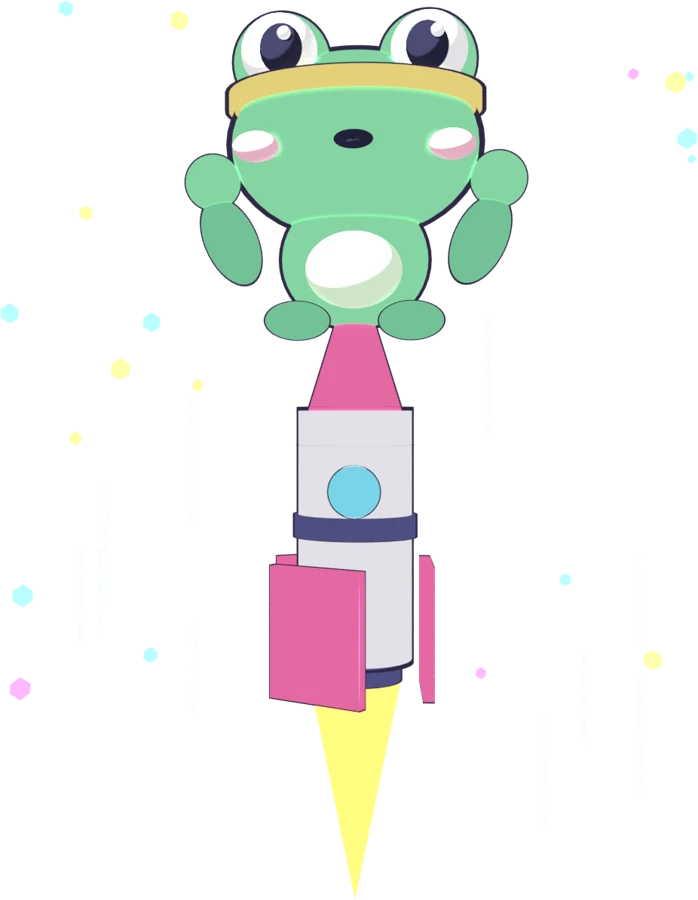
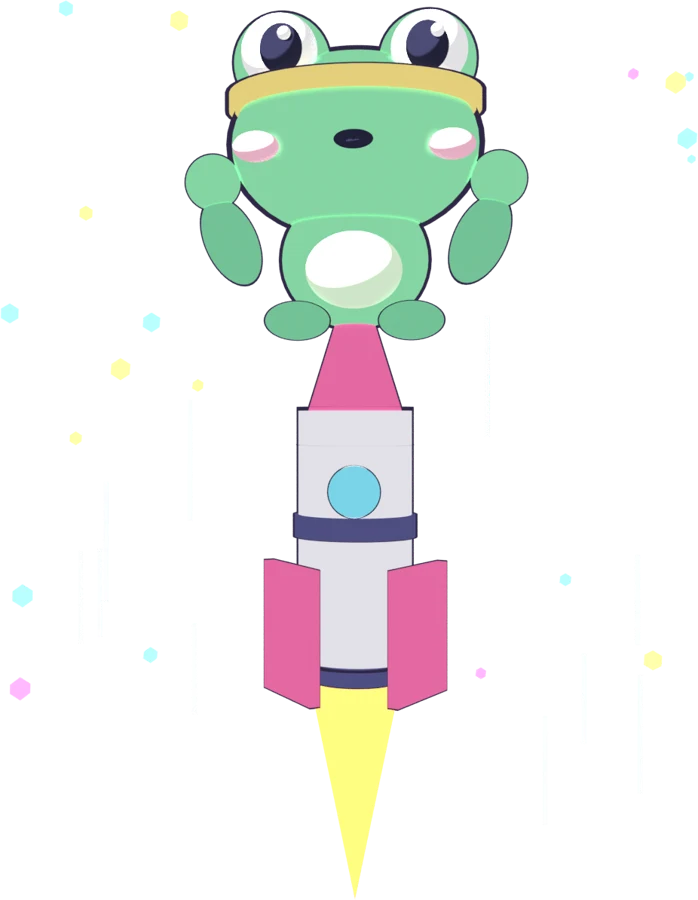
Launches: phone layout fixes, frog-on-rocket hero mascot
Claude-Session: https://claude.ai/code/session_013ykuE4UFgJ7wS4p3Jjt4uQ

Changed region(s): [[0.361, 0.5911, 0.6619, 0.8089]]

diff --git a/web/styles.css b/web/styles.css
@@ -1231,3 +1231,19 @@ a.pcard .pc-stats { display: grid; grid-template-columns: repeat(3, 1fr); gap: 8
 @media (max-width: 760px) { .hx { grid-template-columns: 1fr; padding-top: 12px; } .hx-m { order: -1; } .hx-m img { width: min(70%, 260px); } .hx-t { text-align: center; justify-items: center; } .hx-t h1 { justify-items: center; font-size: 56px; } .hx-b { justify-content: center; } }
 @media (prefers-reduced-motion: reduce) { .hx-m img { animation: none; } }
 .hx::before { -webkit-mask-image: radial-gradient(ellipse at 60% 45%, #000 40%, transparent 78%); mask-image: radial-gradient(ellipse at 60% 45%, #000 40%, transparent 78%); }
+
+/* ===== Celular: nada se sale ni se corta ===== */
+@media (max-width: 760px) {
+  html, body { overflow-x: clip; } main#app, #app { max-width: 100vw; overflow-x: clip; }
+  .deck { grid-template-columns: 1fr !important; } .deck > * { min-width: 0; max-width: 100%; }
+  .lc-pg { display: block; } .lc-pg > * { max-width: 100%; box-sizing: border-box; min-width: 0; margin-bottom: 14px; }
+  .lc-side, .lc-main { width: 100%; } .lc-side input, .lc-form input, .lc-cin input { min-width: 0; max-width: 100%; box-sizing: border-box; }
+  .lc-side .field-amt { width: 100%; box-sizing: border-box; } .lc-side .field-amt input { width: 100%; min-width: 0; }
+  .lc-side .tx-q, .lc-side .tx-amts { grid-template-columns: repeat(3, 1fr); } .lc-mine { flex-wrap: wrap; } .lc-2 { grid-template-columns: 1fr 1fr; }
+  .lc-big b { font-size: 32px; } .lc-hero-t h1 { font-size: 34px; } .lc-note, .lc-lock { max-width: 100%; box-sizing: border-box; }
+  .cat-bar { gap: 10px; } .cat-tabs { max-width: 100%; } .page-h h1 { font-size: 40px; }
+  .lc-form { max-width: 100%; } .lc-form .two { grid-template-columns: 1fr 1fr; gap: 10px; }
+  .hx { padding-bottom: 0; } #lc-home { margin-top: 18px; }
+  .demo-bar { max-width: 94vw; overflow-x: auto; }
+}
+@media (max-width: 760px) { .deck { display: grid !important; grid-template-columns: 1fr !important; overflow: visible !important; scroll-snap-type: none !important; gap: 14px; } .deck > .pcard { flex: none !important; width: 100% !important; max-width: 100% !important; scroll-snap-align: none; } }

diff --git a/brand/holdfast/3d/mascot_coin.py b/brand/holdfast/3d/mascot_coin.py
@@ -1,0 +1,87 @@
+# Mascota inventada de Holdfast: criatura chibi con sudadera negra y una moneda gigante. Cel-shading con contorno.
+# blender -b -P mascot_coin.py -- salida.png [porcentaje]
+import bpy, math, sys, random
+out = sys.argv[sys.argv.index("--") + 1]
+pct = int(sys.argv[-1]) if sys.argv[-1].isdigit() else 100
+random.seed(9)
+bpy.ops.wm.read_factory_settings(use_empty=True)
+sc = bpy.context.scene
+sc.render.engine = "CYCLES"; sc.cycles.device = "CPU"; sc.cycles.samples = 28; sc.cycles.use_denoising = True
+sc.render.film_transparent = True; sc.render.resolution_x = sc.render.resolution_y = 1400; sc.render.resolution_percentage = pct
+sc.view_settings.view_transform = "Standard"
+
+def toon(name, rgb, size=0.55, smooth=0.04, glow=0.75):
+    m = bpy.data.materials.new(name); m.use_nodes = True; t = m.node_tree; n = t.nodes; n.clear()
+    o = n.new("ShaderNodeOutputMaterial"); b = n.new("ShaderNodeBsdfToon"); b.inputs["Color"].default_value = (*rgb, 1); b.inputs["Size"].default_value = size; b.inputs["Smooth"].default_value = smooth
+    e = n.new("ShaderNodeEmission"); e.inputs["Color"].default_value = (*rgb, 1); e.inputs["Strength"].default_value = glow
+    ad = n.new("ShaderNodeAddShader"); t.links.new(b.outputs[0], ad.inputs[0]); t.links.new(e.outputs[0], ad.inputs[1]); t.links.new(ad.outputs[0], o.inputs[0]); return m
+def emis(name, rgb, k=1.6):
+    m = bpy.data.materials.new(name); m.use_nodes = True; t = m.node_tree; n = t.nodes; n.clear()
+    o = n.new("ShaderNodeOutputMaterial"); e = n.new("ShaderNodeEmission"); e.inputs["Color"].default_value = (*rgb, 1); e.inputs["Strength"].default_value = k
+    t.links.new(e.outputs[0], o.inputs[0]); return m
+def outline_mat():
+    m = bpy.data.materials.new("ol"); m.use_nodes = True; t = m.node_tree; n = t.nodes; n.clear()
+    o = n.new("ShaderNodeOutputMaterial"); e = n.new("ShaderNodeEmission"); e.inputs["Color"].default_value = (0.03, 0.02, 0.07, 1)
+    tr = n.new("ShaderNodeBsdfTransparent"); g = n.new("ShaderNodeNewGeometry"); mx = n.new("ShaderNodeMixShader")
+    t.links.new(g.outputs["Backfacing"], mx.inputs[0]); t.links.new(e.outputs[0], mx.inputs[1]); t.links.new(tr.outputs[0], mx.inputs[2]); t.links.new(mx.outputs[0], o.inputs[0]); return m
+OL = outline_mat()
+def prim(kind, loc, scale, mat, rot=(0, 0, 0), outline=True, th=0.05, **kw):
+    if kind == "sphere": bpy.ops.mesh.primitive_uv_sphere_add(radius=1, location=loc, segments=48, ring_count=24)
+    elif kind == "cyl": bpy.ops.mesh.primitive_cylinder_add(radius=1, depth=2, location=loc, vertices=64)
+    elif kind == "cone": bpy.ops.mesh.primitive_cone_add(radius1=1, radius2=kw.get("r2", 0), depth=2, location=loc, vertices=32)
+    elif kind == "cube": bpy.ops.mesh.primitive_cube_add(size=2, location=loc)
+    o = bpy.context.object; o.scale = scale; o.rotation_euler = tuple(math.radians(r) for r in rot); bpy.ops.object.shade_smooth(); o.data.materials.append(mat)
+    if outline:
+        o.data.materials.append(OL); md = o.modifiers.new("ol", "SOLIDIFY"); md.thickness = th; md.offset = 1; md.use_flip_normals = True; md.material_offset = 1
+    return o
+
+SKIN = toon("skin", (0.80, 0.68, 1.0)); SKIN2 = toon("skin2", (0.62, 0.50, 0.92)); HOOD = toon("hood", (0.10, 0.09, 0.15)); HOOD2 = toon("hood2", (0.18, 0.15, 0.26))
+WHITE = toon("white", (0.98, 0.98, 1.0)); BLACK = toon("black", (0.02, 0.02, 0.06)); PINK = toon("pink", (1.0, 0.45, 0.70)); GOLD = toon("gold", (1.0, 0.78, 0.22), glow=0.9); GOLD2 = toon("gold2", (0.85, 0.55, 0.10))
+CYANE = emis("cyan", (0.2, 0.9, 1.0), 2.2)
+# capucha (detrás de la cabeza) y cuerpo con sudadera
+prim("sphere", (0, 0.45, 2.45), (1.6, 1.15, 1.45), HOOD)
+prim("sphere", (0, 0.1, 0.55), (1.05, 0.85, 1.0), HOOD)
+prim("sphere", (0, -0.62, 0.35), (0.62, 0.2, 0.34), HOOD2, outline=False)                      # bolsillo
+for sx in (-1, 1): prim("cyl", (sx * 0.38, -0.78, 1.28), (0.04, 0.04, 0.5), WHITE, outline=False)   # cordones
+# cabeza
+prim("sphere", (0, -0.05, 2.45), (1.38, 1.12, 1.18), SKIN)
+for sx in (-1, 1):
+    prim("cone", (sx * 0.95, 0.1, 3.75), (0.36, 0.30, 0.62), SKIN, rot=(0, sx * 18, 0), r2=0.05)  # orejitas/cuernitos
+    prim("cone", (sx * 0.95, -0.02, 3.62), (0.2, 0.15, 0.4), PINK, rot=(0, sx * 18, 0), r2=0.03, outline=False)
+    ex = sx * 0.52
+    prim("sphere", (ex, -1.05, 2.55), (0.36, 0.2, 0.46), BLACK, outline=False)                    # ojos
+    prim("sphere", (ex + 0.1, -1.2, 2.72), (0.12, 0.06, 0.14), WHITE, outline=False)
+    prim("sphere", (ex - 0.06, -1.2, 2.38), (0.06, 0.04, 0.07), WHITE, outline=False)
+    prim("sphere", (sx * 0.98, -0.95, 2.1), (0.26, 0.1, 0.16), PINK, outline=False)               # mejillas
+prim("sphere", (0, -1.12, 2.0), (0.2, 0.07, 0.11), BLACK, outline=False)                          # boca
+prim("sphere", (0, -1.17, 2.02), (0.1, 0.04, 0.05), PINK, outline=False)
+# antena con luz cian
+prim("cyl", (0, 0.0, 3.75), (0.03, 0.03, 0.45), SKIN2, outline=False); bpy.ops.mesh.primitive_uv_sphere_add(radius=0.17, location=(0, 0, 4.3)); bpy.context.object.data.materials.append(CYANE)
+# moneda gigante (frente al cuerpo, a la derecha)
+cx, cy, cz = 1.55, -1.25, 0.9
+prim("cyl", (cx, cy, cz), (1.75, 1.75, 0.2), GOLD, rot=(90, 0, 0), th=0.06)
+prim("cyl", (cx, cy - 0.17, cz), (1.45, 1.45, 0.04), GOLD2, rot=(90, 0, 0), outline=False)
+for bx, bz, sw, sh in ((-0.42, 0, 0.17, 0.85), (0.42, 0, 0.17, 0.85), (0, 0, 0.5, 0.14)):  # letra H grabada
+    prim("cube", (cx + bx, cy - 0.23, cz + bz), (sw, 0.05, sh), toon("h", (1.0, 0.95, 0.7)), outline=False)
+# brazos de la sudadera sosteniendo la moneda y manitas
+for sx, hx in ((-1, cx - 1.55), (1, cx + 1.55)):
+    prim("sphere", (sx * 1.05 + (0.3 if sx > 0 else 0) , -0.75, 0.9), (0.38, 0.42, 0.85), HOOD, rot=(0, sx * 12, 0))
+    prim("sphere", (hx, cy - 0.1, cz - 0.1), (0.3, 0.3, 0.3), SKIN)
+# pies (zapatillas) y colita
+for sx in (-1, 1): prim("sphere", (sx * 0.55, -0.55, -0.55), (0.46, 0.68, 0.28), WHITE)
+prim("sphere", (0, 1.1, 0.2), (0.3, 0.3, 0.3), SKIN2)
+# destellos
+for i in range(18):
+    x, z = random.uniform(-3.8, 4.4), random.uniform(-1.4, 5.2)
+    if abs(x) < 2.0 and -0.9 < z < 4.6: continue
+    c = random.choice([emis("s1", (1, 0.82, 0.3), 1.6), emis("s2", (0.3, 0.85, 1), 1.6), emis("s3", (1, 0.4, 0.75), 1.6)])
+    bpy.ops.mesh.primitive_ico_sphere_add(radius=random.uniform(0.06, 0.15), location=(x, random.uniform(0.6, 1.6), z), subdivisions=1); bpy.context.object.data.materials.append(c)
+sun = bpy.data.lights.new("sun", "SUN"); sun.energy = 7.0; so = bpy.data.objects.new("sun", sun); sc.collection.objects.link(so); so.rotation_euler = (math.radians(55), math.radians(15), math.radians(-35))
+for nm, col, loc in (("pk", (1, 0.2, 0.55), (4, 3, 2)), ("cy", (0.2, 0.8, 1), (-4, 3, 1))):
+    l = bpy.data.lights.new(nm, "POINT"); l.energy = 900; l.color = col; lo = bpy.data.objects.new(nm, l); lo.location = loc; sc.collection.objects.link(lo)
+cam = bpy.data.objects.new("cam", bpy.data.cameras.new("cam")); sc.collection.objects.link(cam); sc.camera = cam
+cam.location = (0.6, -13.5, 1.9); cam.rotation_euler = (math.radians(90), 0, math.radians(3)); cam.data.lens = 46
+w = bpy.data.worlds.new("w"); sc.world = w; w.use_nodes = True; w.node_tree.nodes["Background"].inputs[1].default_value = 0.6
+sc.render.filepath = out
+bpy.ops.render.render(write_still=True)
+print("OK", out)

diff --git a/brand/holdfast/3d/frog_rocket.py b/brand/holdfast/3d/frog_rocket.py
@@ -43,7 +43,7 @@ PINK = toon("pink", (1.0, 0.55, 0.70)); BLACK = toon("black", (0.02, 0.02, 0.05)
 R = (0, 0, 28)
 prim("cyl", (0.2, 0, -1.1), (0.62, 0.62, 1.35), WHITE, rot=(0, 0, 0))
 prim("cone", (0.2, 0, 0.9), (0.62, 0.62, 1.0), RED, rot=(0, 0, 0))
-for a in (0, 120, 240):
+for a in (90, 210, 330):
     x, y = 0.2 + 0.78 * math.cos(math.radians(a)), 0.78 * math.sin(math.radians(a))
     prim("cube", (x, y, -2.1), (0.06, 0.55, 0.7), RED, rot=(0, 0, a), th=0.03)
 prim("cyl", (0.2, 0, -1.0), (0.66, 0.66, 0.12), NAVY); prim("sphere", (0.2, -0.64, -0.6), (0.27, 0.12, 0.27), CYAN)
